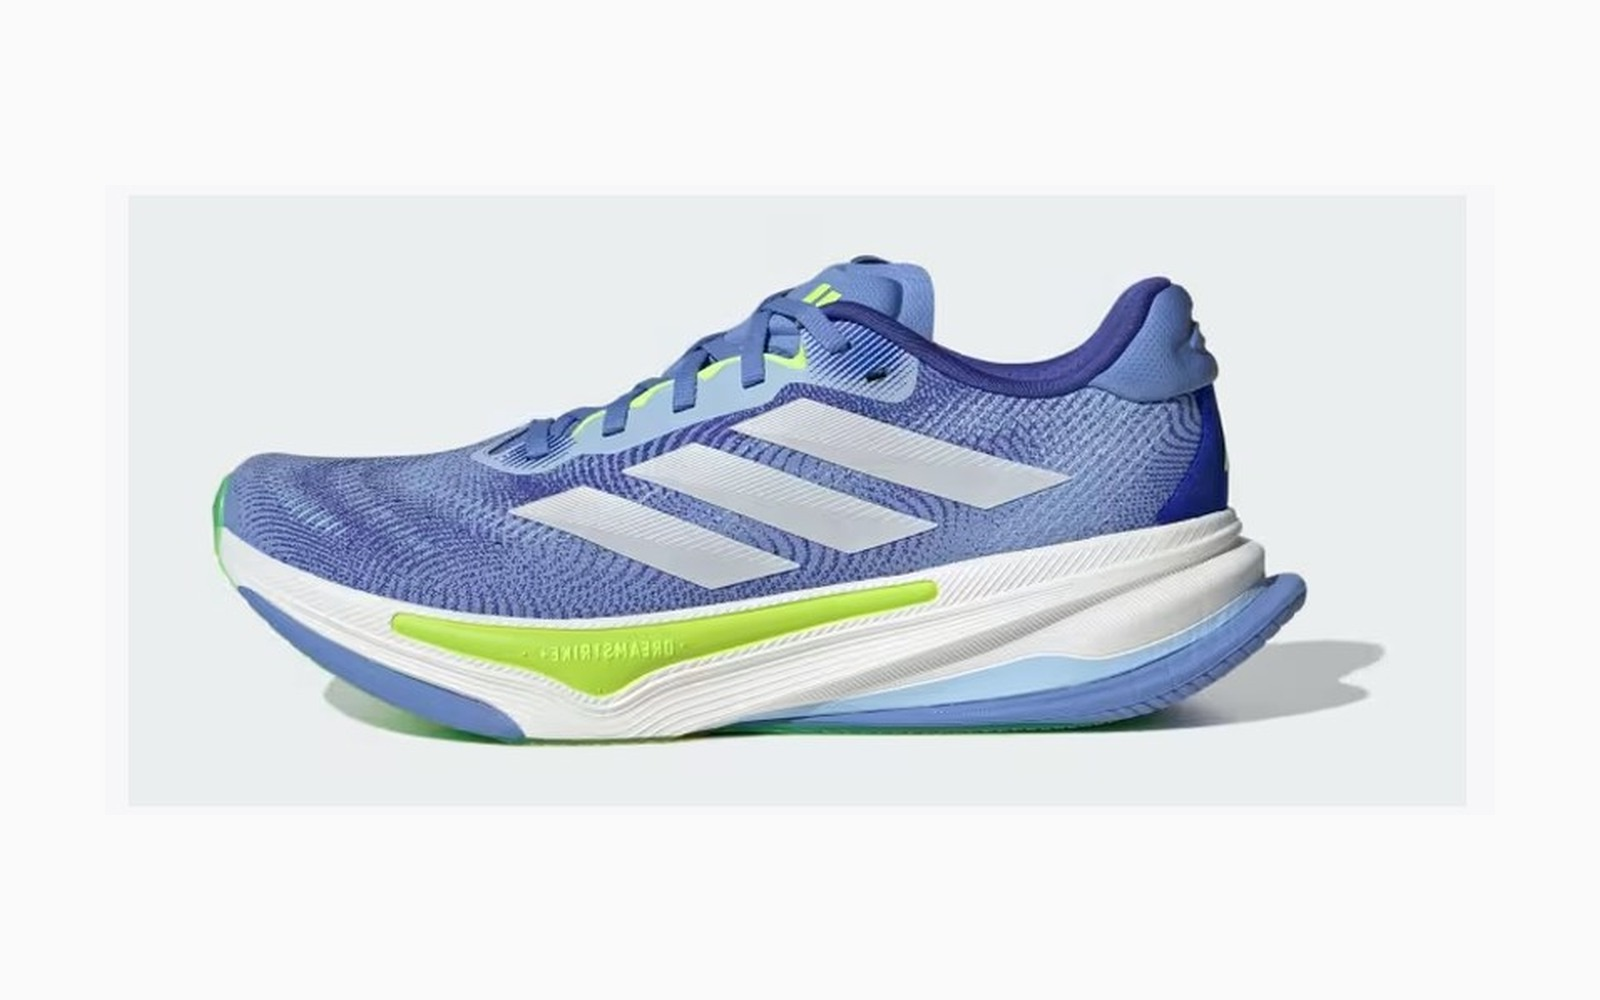
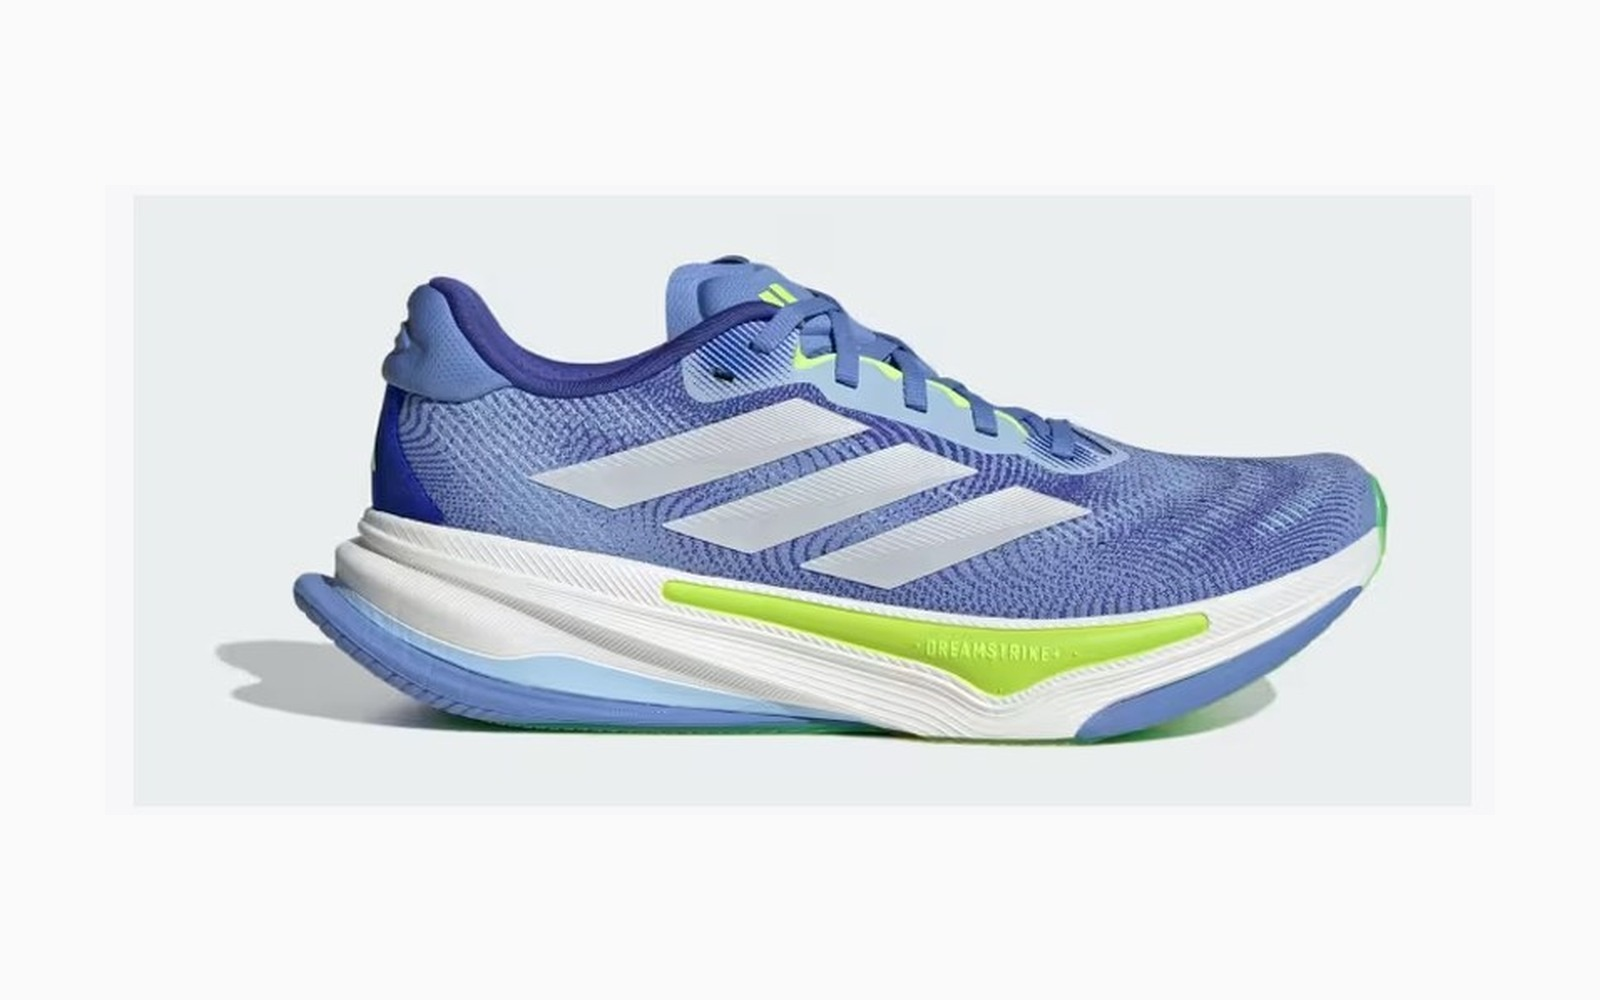
Normalize shoe image direction

Changed region(s): [[0.125, 0.248, 0.875, 0.775]]

diff --git a/data/shoes.js b/data/shoes.js
@@ -7,7 +7,7 @@
 
   const SOURCE_POST =
     "https://gall.dcinside.com/mgallery/board/view/?id=running&no=1042108&page=1";
-  const IMAGE_VERSION = "20260530-orientation-1";
+  const IMAGE_VERSION = "20260608-right-facing-1";
   const LINEUP_VERSION = "20260530-lineup-archive-1";
 
   window.RUNNING_LINEUP_VERSION = LINEUP_VERSION;
@@ -94,7 +94,7 @@
     "adidas-프라임-x3-스트렁": {"imageUrl": "https://assets.adidas.com/images/w_600%2Cf_auto%2Cq_auto/9555beb9306644188463c13282f7e01f_9366/Adizero_Prime_X3_Strung_Shoes_White_JR2597_HM1.jpg", "imageSourceUrl": "https://www.adidas.com.au/adizero-prime-x3-strung-shoes/JR2597.html", "officialProductUrl": "https://www.adidas.com.au/adizero-prime-x3-strung-shoes/JR2597.html", "displayName": "Adizero Prime X 3 Strung", "imageFit": "contain", "imagePosition": "center", "imageScale": 0.94},
     "adidas-프로-에보-3": {"imageUrl": "https://assets.adidas.com/images/w_600%2Cf_auto%2Cq_auto/9a6bcdf1c48e4c0298e897623d921571_9366/ADIZERO_ADIOS_PRO_EVO_3_Shoes_White_KH7678_01_00_standard.jpg", "imageSourceUrl": "https://www.adidas.com/us/adizero-adios-pro-evo-3-shoes/KH7678.html", "officialProductUrl": "https://www.adidas.com/us/adizero-adios-pro-evo-3-shoes/KH7678.html", "displayName": "Adizero Pro Evo 3", "imageFit": "contain", "imagePosition": "center", "imageScale": 0.94},
     "adidas-하이퍼부스트-엣지": {"imageUrl": "https://assets.adidas.com/images/w_1880,f_auto,q_auto/40bc238de20b46a7883c27238e9d13f1_9366/KI1916_01_00_standard.jpg", "imageSourceUrl": "https://www.adidas.com/us/hyperboost-edge-running-shoes/KI1916.html", "officialProductUrl": "https://www.adidas.com/us/hyperboost-edge-running-shoes/KI1916.html", "displayName": "Hyperboost Edge", "imageFit": "contain", "imagePosition": "center", "imageScale": 0.94},
-    "asics-gt2000-14": {"imageUrl": "https://www.asics.com/nz/en-nz/media/catalog/product/image/148865b523/gt-2000-14-2e-wide.jpg", "imageSourceUrl": "https://www.asics.com/nz/en-nz/gt-2000-14-2e-mens-1011c055-400", "officialProductUrl": "https://www.asics.com/nz/en-nz/gt-2000-14-2e-mens-1011c055-400", "displayName": "GT-2000 14", "imageFit": "contain", "imagePosition": "center", "imageScale": 0.94},
+    "asics-gt2000-14": {"imageUrl": "https://images.asics.com/is/image/asics/1011C055_400_SR_RT_GLB?wid=1600&hei=1200&fmt=jpg", "imageSourceUrl": "https://www.asics.com/nz/en-nz/gt-2000-14-2e-mens-1011c055-400", "officialProductUrl": "https://www.asics.com/nz/en-nz/gt-2000-14-2e-mens-1011c055-400", "displayName": "GT-2000 14", "imageFit": "contain", "imagePosition": "center", "imageScale": 0.94},
     "asics-s4-요기리": {"imageUrl": "https://images.asics.com/is/image/asics/1013A158_301_SR_RT_GLB?$product$", "imageSourceUrl": "https://www.asics.com/jp/ja-jp/s4%2B-yogiri/p/1013A158-301.html", "officialProductUrl": "https://www.asics.com/jp/ja-jp/s4%2B-yogiri/p/1013A158-301.html", "displayName": "S4+ Yogiri", "imageFit": "contain", "imagePosition": "center", "imageScale": 0.94},
     "asics-글라이드라이드-맥스-2": {"imageUrl": "https://images.asics.com/is/image/asics/1011C156_300_SR_RT_GLB?wid=1600&hei=1200&fmt=jpg", "imageSourceUrl": "https://www.asics.com/jp/ja-jp/glideride-max-2/p/1011C156-300.html", "officialProductUrl": "https://www.asics.com/jp/ja-jp/glideride-max-2/p/1011C156-300.html", "displayName": "Glideride Max 2", "imageFit": "contain", "imagePosition": "center", "imageScale": 0.94},
     "asics-노바블라스트-5": {"imageUrl": "https://images.asics.com/is/image/asics/1011B974_400_SR_RT_GLB?$sfcc-product$", "imageSourceUrl": "https://www.asics.com/ph/en-ph/novablast-5/", "officialProductUrl": "https://www.asics.com/ph/en-ph/novablast-5/", "displayName": "Novablast 5", "imageFit": "contain", "imagePosition": "center", "imageScale": 0.94},
@@ -142,7 +142,7 @@
     "mizuno-하이퍼퀵-프로": {"imageUrl": "https://jpn.mizuno.com/static/mallDefault/images/goods/zoom1000/SH_J1GC267401_02_XL.jpg", "imageSourceUrl": "https://kor.mizuno.com/product/hyperwarp-pro/11322/", "officialProductUrl": "https://kor.mizuno.com/product/hyperwarp-pro/11322/", "displayName": "Hyperquick Pro", "imageFit": "contain", "imagePosition": "center", "imageScale": 0.94},
     "new-balance-1080-v15": {"imageUrl": "https://www.newbalance.com.ar/on/demandware.static/-/Sites-siteCatalog_NBEU/default/dwf3904196/new_images/N10225075/N10225075070550/N10225075070550-1.jpeg", "imageSourceUrl": "https://www.newbalance.com.ar/hombre-zapatillas-N10225075090550.html", "officialProductUrl": "https://www.newbalance.com.ar/hombre-zapatillas-N10225075090550.html", "displayName": "Fresh Foam X 1080v15", "imageFit": "contain", "imagePosition": "center", "imageScale": 0.94},
     "new-balance-860-v15": {"imageUrl": "https://nb.scene7.com/is/image/NB/m86039g_nb_02_i?wid=1200&hei=1200", "imageSourceUrl": "https://nb.scene7.com/is/image/NB/m86039g_nb_02_i?wid=1200&hei=1200", "officialProductUrl": "https://www.newbalance.com/", "displayName": "Fresh Foam X 860v15", "imageFit": "contain", "imagePosition": "center", "imageScale": 0.94},
-    "new-balance-880-v15": {"imageUrl": "https://nb.scene7.com/is/image/NB/m880t15_nb_05_i?$pdpflexf2$&wid=880&hei=880", "imageSourceUrl": "https://www.newbalance.com/pd/fresh-foam-x-880v15/M880T15-D-10.html", "officialProductUrl": "https://www.newbalance.com/pd/fresh-foam-x-880v15/M880T15-D-10.html", "displayName": "Fresh Foam X 880v15", "imageFit": "contain", "imagePosition": "center", "imageScale": 0.94},
+    "new-balance-880-v15": {"imageUrl": "https://nb.scene7.com/is/image/NB/m880t15_nb_02_i?$pdpflexf2$&wid=880&hei=880", "imageSourceUrl": "https://www.newbalance.com/pd/fresh-foam-x-880v15/M880T15-D-10.html", "officialProductUrl": "https://www.newbalance.com/pd/fresh-foam-x-880v15/M880T15-D-10.html", "displayName": "Fresh Foam X 880v15", "imageFit": "contain", "imagePosition": "center", "imageScale": 0.94},
     "new-balance-sc엘리트-v5": {"imageUrl": "https://nb.scene7.com/is/image/NB/wrcel4jm_nb_02_i?wid=1200&hei=1200", "imageSourceUrl": "https://www.newbalance.com/es/pd/fuelcell-supercomp-elite-v5/WRCELV5-50686.html", "officialProductUrl": "https://www.newbalance.com/es/pd/fuelcell-supercomp-elite-v5/WRCELV5-50686.html", "displayName": "FuelCell SuperComp Elite v5", "imageFit": "contain", "imagePosition": "center", "imageScale": 1},
     "new-balance-sc트레이너-v3": {"imageUrl": "https://nb.scene7.com/is/image/NB/mrcx25r_nb_02_i?wid=1200&hei=1200", "imageSourceUrl": "https://www.newbalance.com/es/pd/fuelcell-supercomp-trainer-v3/MRCXV4-50691.html?dwvar_MRCXV4-50691_style=MRCX25R", "officialProductUrl": "https://www.newbalance.com/es/pd/fuelcell-supercomp-trainer-v3/MRCXV4-50691.html?dwvar_MRCXV4-50691_style=MRCX25R", "displayName": "FuelCell SuperComp Trainer v3", "imageFit": "contain", "imagePosition": "center", "imageScale": 1},
     "new-balance-sc페이서-v2": {"imageUrl": "https://nb.scene7.com/is/image/NB/mfcrrcu2_nb_02_i?wid=1200&hei=1200", "imageSourceUrl": "https://nb.scene7.com/is/image/NB/mfcrrcu2_nb_02_i?wid=1200&hei=1200", "officialProductUrl": "https://www.newbalance.com/", "displayName": "FuelCell SuperComp Pacer v2", "imageFit": "contain", "imagePosition": "center", "imageScale": 0.94},

diff --git a/index.html b/index.html
@@ -4,7 +4,7 @@
     <meta charset="UTF-8" />
     <meta name="viewport" content="width=device-width, initial-scale=1.0" />
     <title>디시인사이드 러닝갤러리 러닝화 추천</title>
-    <link rel="stylesheet" href="styles.css?v=20260608-no-list-polish-2" />
+    <link rel="stylesheet" href="styles.css?v=20260608-right-facing-1" />
   </head>
   <body>
     <header class="topbar">
@@ -216,10 +216,10 @@
       <p>가격은 네이버 쇼핑 검색 API 기반 후보입니다. 구매 전 사이즈, 배송비, 재고를 확인하세요.</p>
     </footer>
 
-    <script src="data/shoes.js?v=20260608-no-list-polish-2"></script>
-    <script src="data/lineup-history.js?v=20260608-no-list-polish-2"></script>
-    <script src="data/price-queries.js?v=20260608-no-list-polish-2"></script>
-    <script src="data/prices/latest.js?v=20260608-no-list-polish-2"></script>
-    <script src="app.js?v=20260608-no-list-polish-2"></script>
+    <script src="data/shoes.js?v=20260608-right-facing-1"></script>
+    <script src="data/lineup-history.js?v=20260608-right-facing-1"></script>
+    <script src="data/price-queries.js?v=20260608-right-facing-1"></script>
+    <script src="data/prices/latest.js?v=20260608-right-facing-1"></script>
+    <script src="app.js?v=20260608-right-facing-1"></script>
   </body>
 </html>
